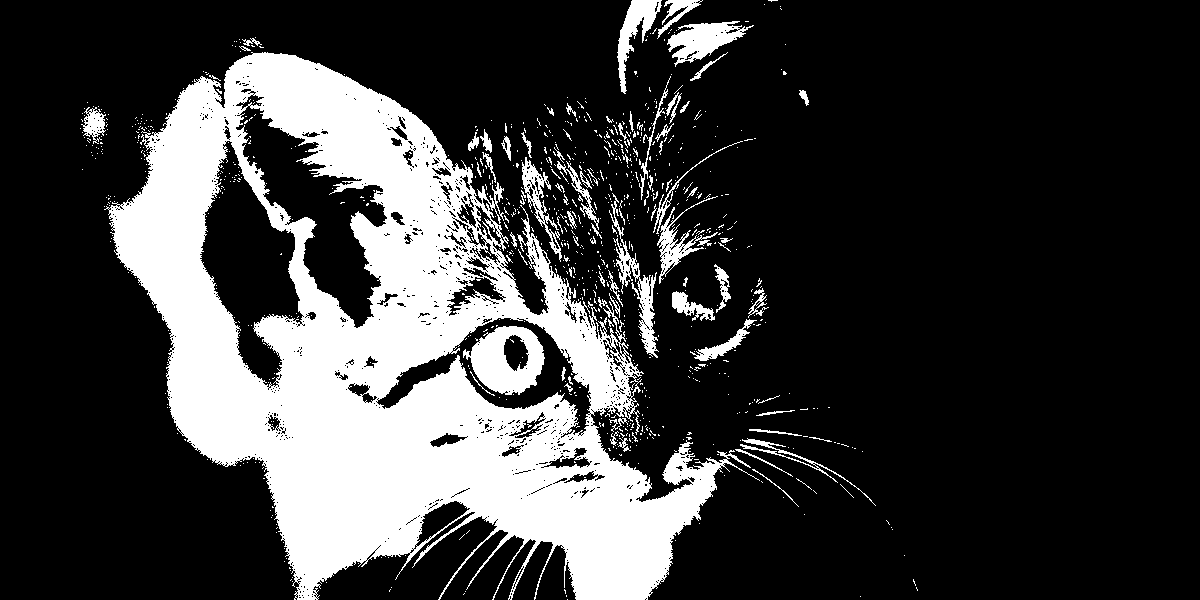
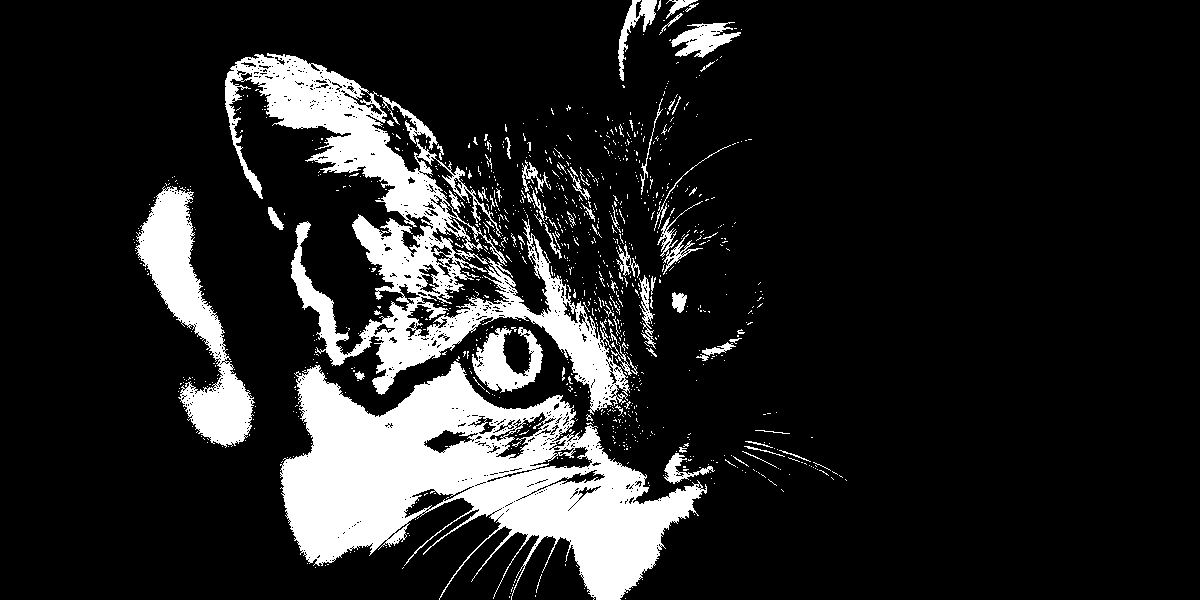
finishing up image_work

diff --git a/DEVLOG-Connor.md b/DEVLOG-Connor.md
@@ -21,3 +21,6 @@ At home, I worked more on how to implement the message mask idea.
 
 ## 2025-05-20
 In class time I merged branches.
+
+## 2025-05-27
+Finishing up image work. Made it so you can manually adjust the threshold for black and white pixels. Fine tuning as well. Now just need to convert black and white image to a message mask.
